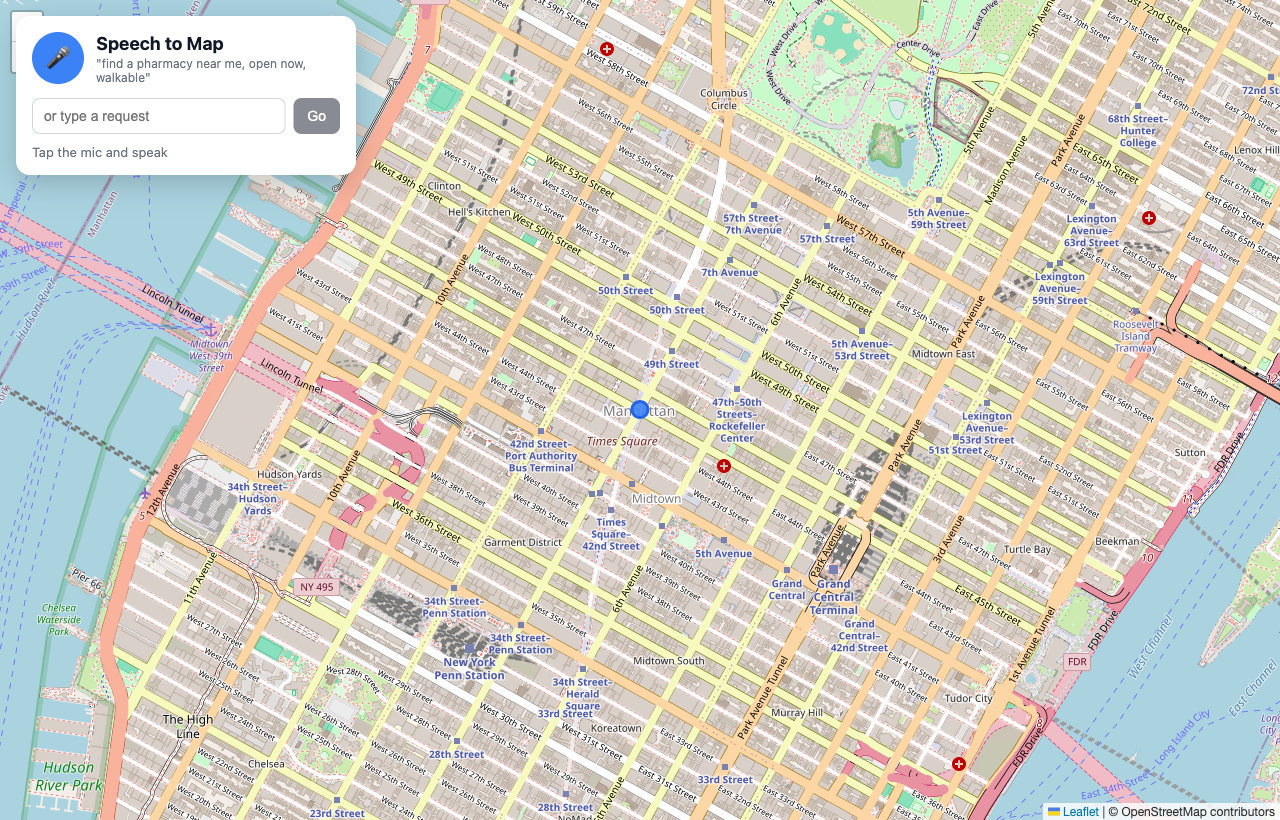
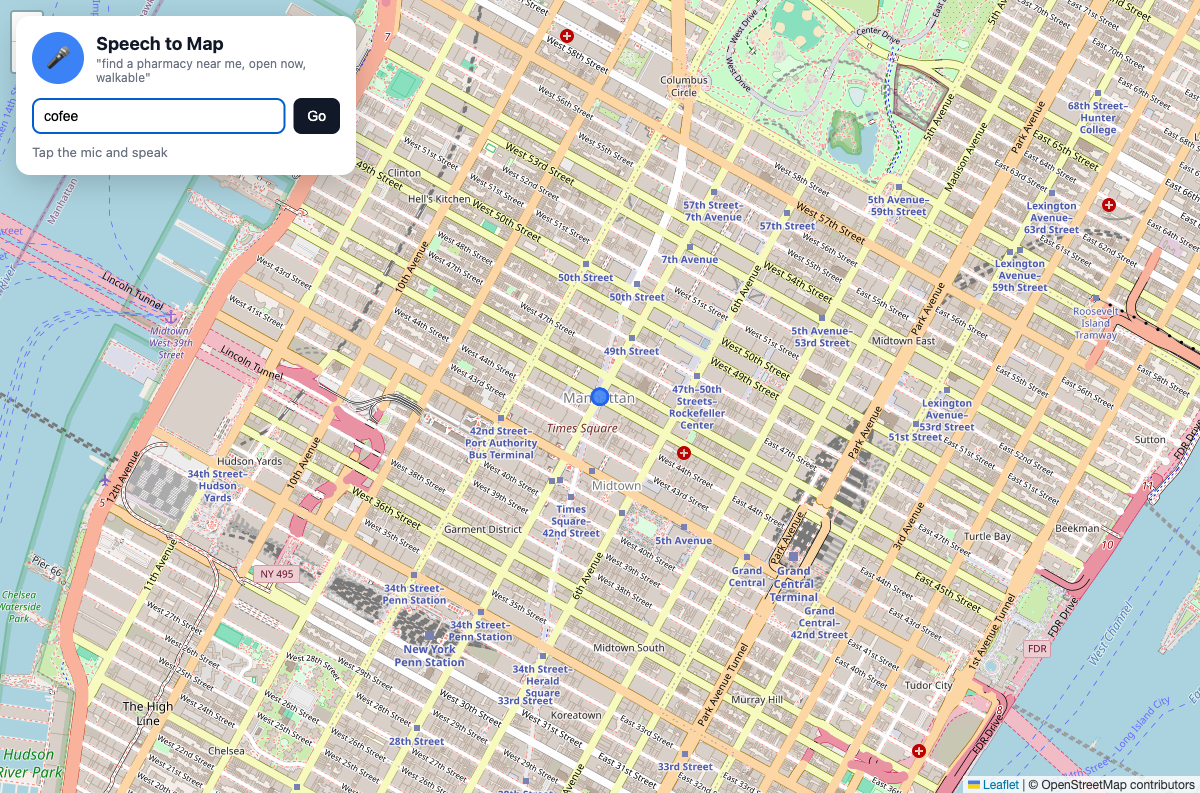
add speech to map

diff --git a/pocs/agent-speech-to-map/frontend/src/VoiceControl.tsx b/pocs/agent-speech-to-map/frontend/src/VoiceControl.tsx
@@ -1,10 +1,11 @@
 import { useRef, useState } from 'react'
 import { sendQuery } from './api'
-import type { QueryResponse } from './types'
+import type { Coord, QueryResponse } from './types'
 
 type Status = 'idle' | 'listening' | 'thinking' | 'done' | 'error'
 
 interface Props {
+  fallbackCenter: Coord
   onResult: (resp: QueryResponse) => void
 }
 
@@ -14,16 +15,17 @@ function createRecognition(): any {
   return Ctor ? new Ctor() : null
 }
 
-function getLocation(): Promise<GeolocationPosition> {
-  return new Promise((resolve, reject) => {
+function getLocation(): Promise<Coord | null> {
+  return new Promise((resolve) => {
     if (!navigator.geolocation) {
-      reject(new Error('Geolocation is not supported by this browser'))
+      resolve(null)
       return
     }
-    navigator.geolocation.getCurrentPosition(resolve, reject, {
-      enableHighAccuracy: true,
-      timeout: 10000,
-    })
+    navigator.geolocation.getCurrentPosition(
+      (p) => resolve({ lat: p.coords.latitude, lon: p.coords.longitude }),
+      () => resolve(null),
+      { enableHighAccuracy: true, timeout: 8000 },
+    )
   })
 }
 
@@ -47,11 +49,12 @@ const statusLabel: Record<Status, string> = {
   error: '',
 }
 
-export default function VoiceControl({ onResult }: Props) {
+export default function VoiceControl({ fallbackCenter, onResult }: Props) {
   const [status, setStatus] = useState<Status>('idle')
   const [transcript, setTranscript] = useState('')
   const [answer, setAnswer] = useState('')
   const [error, setError] = useState('')
+  const [notice, setNotice] = useState('')
   const [typed, setTyped] = useState('')
   const finalRef = useRef('')
   const speechSupported = typeof window !== 'undefined' && !!(
@@ -67,12 +70,17 @@ export default function VoiceControl({ onResult }: Props) {
     setStatus('thinking')
     setAnswer('')
     setError('')
+    setNotice('')
+    let loc = await getLocation()
+    if (!loc) {
+      loc = fallbackCenter
+      setNotice('Location unavailable — searching around the map center. Allow location access for "near me" accuracy.')
+    }
     try {
-      const pos = await getLocation()
       const resp = await sendQuery({
         text: cleaned,
-        lat: pos.coords.latitude,
-        lon: pos.coords.longitude,
+        lat: loc.lat,
+        lon: loc.lon,
         now: localISO(),
       })
       onResult(resp)
@@ -95,6 +103,7 @@ export default function VoiceControl({ onResult }: Props) {
     setTranscript('')
     setAnswer('')
     setError('')
+    setNotice('')
     rec.lang = 'en-US'
     rec.interimResults = true
     rec.continuous = false
@@ -159,6 +168,8 @@ export default function VoiceControl({ onResult }: Props) {
       {transcript && <div className="transcript">{transcript}</div>}
 
       {statusLabel[status] && <div className={`status status-${status}`}>{statusLabel[status]}</div>}
+
+      {notice && <div className="notice">{notice}</div>}
 
       {answer && <div className="answer">{answer}</div>}
 

diff --git a/pocs/agent-speech-to-map/frontend/src/api.ts b/pocs/agent-speech-to-map/frontend/src/api.ts
@@ -3,11 +3,16 @@ import type { QueryRequest, QueryResponse } from './types'
 const API_BASE = import.meta.env.VITE_API_BASE ?? 'http://localhost:8080'
 
 export async function sendQuery(req: QueryRequest): Promise<QueryResponse> {
-  const resp = await fetch(`${API_BASE}/api/query`, {
-    method: 'POST',
-    headers: { 'Content-Type': 'application/json' },
-    body: JSON.stringify(req),
-  })
+  let resp: Response
+  try {
+    resp = await fetch(`${API_BASE}/api/query`, {
+      method: 'POST',
+      headers: { 'Content-Type': 'application/json' },
+      body: JSON.stringify(req),
+    })
+  } catch {
+    throw new Error(`Could not reach the backend at ${API_BASE}. Start it with ./start.sh`)
+  }
   if (!resp.ok) {
     let message = `request failed (${resp.status})`
     try {

diff --git a/pocs/agent-speech-to-map/frontend/src/index.css b/pocs/agent-speech-to-map/frontend/src/index.css
@@ -151,6 +151,16 @@ body {
   line-height: 1.4;
 }
 
+.notice {
+  margin-top: 12px;
+  padding: 9px 11px;
+  background: #fffbeb;
+  border: 1px solid #fde68a;
+  border-radius: 8px;
+  font-size: 13px;
+  color: #92400e;
+}
+
 .error {
   margin-top: 12px;
   padding: 11px 12px;

diff --git a/pocs/agent-speech-to-map/frontend/src/App.tsx b/pocs/agent-speech-to-map/frontend/src/App.tsx
@@ -19,7 +19,7 @@ export default function App() {
   return (
     <div className="app">
       <MapView center={center} places={places} route={route} />
-      <VoiceControl onResult={handleResult} />
+      <VoiceControl fallbackCenter={center} onResult={handleResult} />
     </div>
   )
 }

diff --git a/pocs/agent-speech-to-map/frontend/src/MapView.tsx b/pocs/agent-speech-to-map/frontend/src/MapView.tsx
@@ -7,6 +7,7 @@ import markerIcon2x from 'leaflet/dist/images/marker-icon-2x.png'
 import markerShadow from 'leaflet/dist/images/marker-shadow.png'
 import type { Coord, Place, Route } from './types'
 
+delete (L.Icon.Default.prototype as { _getIconUrl?: unknown })._getIconUrl
 L.Icon.Default.mergeOptions({
   iconUrl: markerIcon,
   iconRetinaUrl: markerIcon2x,

diff --git a/pocs/agent-speech-to-map/README.md b/pocs/agent-speech-to-map/README.md
@@ -1,0 +1,165 @@
+# Geospatial Reasoning Agent — Speech to Map
+
+Speak a request like *"find a pharmacy near me, open now, walkable"*. The browser
+turns your speech into text and reads your location, a Go backend runs an OpenAI
+`gpt-5.4-mini` agent that reasons over OpenStreetMap tools (geocode, POI search,
+routing), and the answer is plotted on a Leaflet map — markers for the places and
+a walking route line to the closest one.
+
+The full design is in [design-doc.md](./design-doc.md).
+
+## Architecture
+
+![Architecture](./printscreens/architecture.svg)
+
+The OpenAI key lives only in the backend; the browser never sees it. The agent is
+a bounded tool-calling loop (max 6 iterations): it calls `gpt-5.4-mini`, executes
+any requested OSM tool, feeds the result back, and repeats until the model returns
+a final answer. The backend tracks the tool outputs so the frontend receives typed
+places and a route, not just prose.
+
+## What it looks like
+
+### On load
+A full-screen OpenStreetMap with a floating control: mic button, a typed-input
+fallback, and the live transcript / answer area. The blue dot is your location.
+
+![Initial UI](./printscreens/01-initial.png)
+
+### After a request
+Markers drop for each place found, the map fits to them, and a red walking route
+is drawn to the closest one. The answer text summarizes the result. The screenshot
+below is a live run of *"find coffee near me, open now, walkable"* against the real
+backend — the agent found open coffee shops around the map center and listed the
+closest ones. The yellow notice appears because location access was denied, so the
+search fell back to the map center.
+
+![Results](./printscreens/02-results.png)
+
+## How a request flows
+
+1. Mic → Web Speech API produces the transcript; Geolocation API provides `lat, lon`.
+2. `POST /api/query { text, lat, lon, now }` to the backend.
+3. The agent calls `gpt-5.4-mini` with the three tool schemas.
+4. The model calls tools — typically `find_pois`, then `get_route` — which the
+   backend executes against Nominatim / Overpass / OSRM.
+5. The model returns a concise answer; the backend returns `{ answer, center, places, route }`.
+6. The frontend renders markers, the route polyline, and the answer.
+
+## Tools the agent can call
+
+| Tool | Service | Purpose |
+|---|---|---|
+| `geocode_place` | Nominatim | Resolve a named place to coordinates |
+| `find_pois` | Overpass | Find places by brand or amenity within a radius |
+| `get_route` | OSRM | Distance, duration and geometry between two points (foot/driving/cycling) |
+
+## Tech stack
+
+| Layer | Tech | Version |
+|---|---|---|
+| Frontend | React | 19 |
+| Build | Vite | 8 |
+| Language | TypeScript | 6 |
+| Map | Leaflet + react-leaflet | 1.9 / 5 |
+| Backend | Go | 1.26 |
+| OpenAI client | `github.com/openai/openai-go/v2` | 2.7 |
+| Model | OpenAI | `gpt-5.4-mini` |
+| Geocode / POI / route | Nominatim / Overpass / OSRM | public endpoints |
+
+## Prerequisites
+
+- Go 1.26+
+- Node 20+
+- An OpenAI API key
+
+## Run
+
+```bash
+export OPENAI_API_KEY=sk-...
+./start.sh
+```
+
+`start.sh` builds and starts the Go backend, starts the Vite dev server, picks a
+free port for each (so it never collides with other apps you already run), waits
+until both answer, and prints the real URL to open. Stop everything with:
+
+```bash
+./stop.sh
+```
+
+## Configuration
+
+| Variable | Where | Purpose |
+|---|---|---|
+| `OPENAI_API_KEY` | backend | OpenAI auth. Required. Never sent to the browser. |
+| `PORT` | backend | Backend port (default 8080, auto-advanced if busy). |
+| `FRONTEND_PORT` | frontend | Vite port (default 5173, auto-advanced if busy). |
+| `VITE_API_BASE` | frontend | Backend base URL (set by `start.sh`). |
+
+## API
+
+`POST /api/query`
+
+```json
+{ "text": "find a burger king near me", "lat": 40.7580, "lon": -73.9855, "now": "2026-06-08T15:04:00-04:00" }
+```
+
+```json
+{
+  "answer": "I found 3 Burger Kings near you. The closest is 350 m away, about a 5 minute walk.",
+  "center": { "lat": 40.7580, "lon": -73.9855 },
+  "places": [{ "name": "Burger King", "lat": 40.7561, "lon": -73.9869, "address": "Manhattan, NY", "opening_hours": "Mo-Su 06:00-23:00", "distance_m": 350 }],
+  "route": { "to": { "lat": 40.7561, "lon": -73.9869 }, "mode": "foot", "distance_m": 380, "duration_s": 300, "geometry": [[40.7580, -73.9855], [40.7561, -73.9869]] }
+}
+```
+
+`route` is omitted when the request did not call for routing.
+
+`GET /api/health` returns `{ "status": "ok" }`.
+
+## Tests
+
+```bash
+./test.sh
+```
+
+Runs the Go unit tests, the frontend typecheck and build, and checks `/api/health`.
+
+```
+=== RUN   TestBuildOverpassQueryBrandIsCaseInsensitive
+--- PASS: TestBuildOverpassQueryBrandIsCaseInsensitive (0.00s)
+=== RUN   TestBuildOverpassQueryAmenityCoversShopAndAmenity
+--- PASS: TestBuildOverpassQueryAmenityCoversShopAndAmenity (0.00s)
+=== RUN   TestBuildOverpassQueryDefaultsToAnyAmenity
+--- PASS: TestBuildOverpassQueryDefaultsToAnyAmenity (0.00s)
+=== RUN   TestEscapeOverpassNeutralizesQuotes
+--- PASS: TestEscapeOverpassNeutralizesQuotes (0.00s)
+=== RUN   TestFormatAddressJoinsNumberStreetCity
+--- PASS: TestFormatAddressJoinsNumberStreetCity (0.00s)
+=== RUN   TestNormalizeProfileMapsWalkableToFoot
+--- PASS: TestNormalizeProfileMapsWalkableToFoot (0.00s)
+=== RUN   TestHaversineApproximatesKnownDistance
+--- PASS: TestHaversineApproximatesKnownDistance (0.00s)
+=== RUN   TestDispatchUnknownToolReportsError
+--- PASS: TestDispatchUnknownToolReportsError (0.00s)
+=== RUN   TestToolErrorIsValidJSON
+--- PASS: TestToolErrorIsValidJSON (0.00s)
+PASS
+ok  	speechtomap        0.561s
+ok  	speechtomap/osm    0.324s
+```
+
+## Notes and limits
+
+- **Public OSM endpoints** are rate-limited. The backend sends a descriptive
+  User-Agent and bounds the search radius. For heavy use, self-host Nominatim /
+  Overpass / OSRM behind the same tool interfaces.
+- **`opening_hours`** parsing is left to the model for common cases; the raw tag is
+  always passed through so you can verify "open now".
+- **Walking routes** use the public OSRM server; when its foot profile is
+  unavailable it falls back to the driving network for geometry, and walking time
+  is derived from distance.
+- **Speech recognition** needs a browser with the Web Speech API (Chrome/Edge). The
+  typed-input box is the fallback everywhere else. If location is denied, the search
+  falls back to the map center and shows a notice.